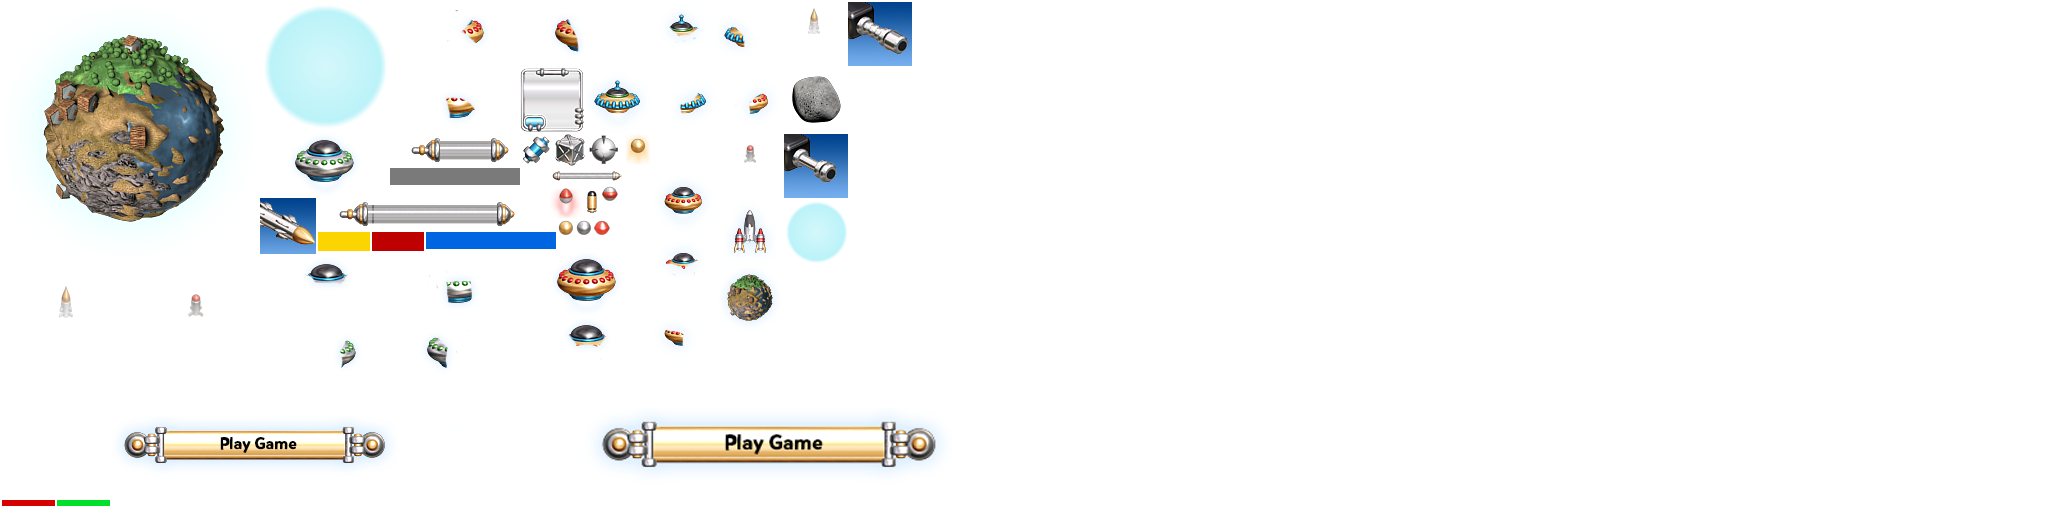
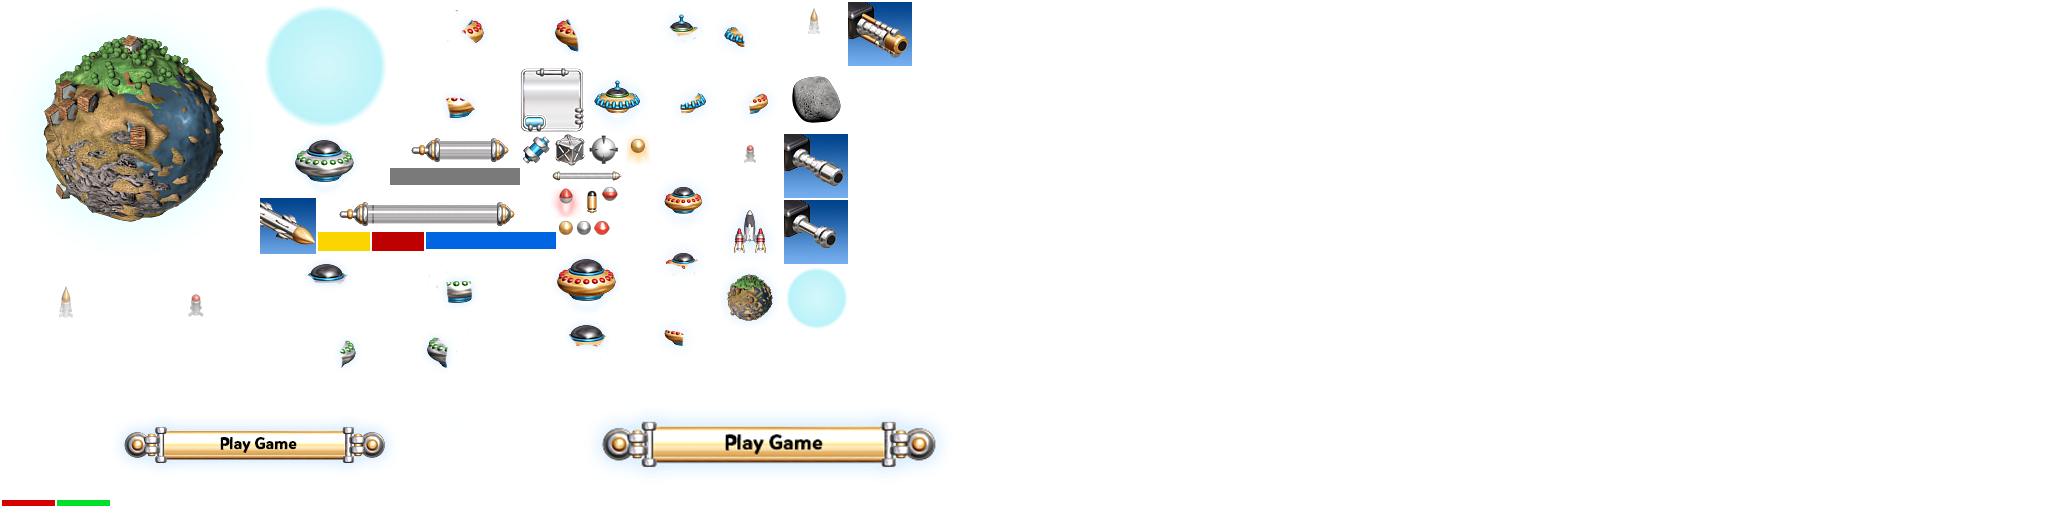
change bullet

Changed region(s): [[0.375, 0.375, 0.4375, 0.6562], [0.4062, 0.0312, 0.4375, 0.0938], [0.375, 0.3125, 0.4062, 0.3438]]

diff --git a/js/ShipController.js b/js/ShipController.js
@@ -72,7 +72,11 @@ class ShipController {
                 Clash.display.weapon.frameName = 'cannon1.jpg';
                 break;
             case 2:
-                Clash.display.weapon.frameName = 'rocket2.jpg';
+                if (this.sprite.numberBullet == 3) {
+                    Clash.display.weapon.frameName = 'rocket2.jpg';
+                } else {
+                    Clash.display.weapon.frameName = "cannon3.jpg";
+                }
                 break;
         }
 
@@ -150,17 +154,16 @@ class ShipController {
             this.timeSinceLastFire = 0;
             switch (this.sprite.bulletType) {
                 case 1:
-                    this.createBullet2(new Phaser.Point(0.5, 0.5), {angle:0});
-                    // this.createBullet1(new Phaser.Point(0.5, 0.5));
+                    // this.createBullet2(new Phaser.Point(0.5, 0.5), {angle:0});
+                    this.createBullet1(new Phaser.Point(0.5, 0.5));
                     break;
                 case 2:
                     if (this.sprite.numberBullet == 3) {
-                        this.createBullet2(new Phaser.Point(0.5, 0.5), {angle:0});
-                        this.createBullet2(new Phaser.Point(0.5, 0.5), {angle:0});
-                        // this.createBullet2(new Phaser.Point(0.5, 0.5), {angle:50});
-                        // this.createBullet2(new Phaser.Point(0.5, 0.5), {angle:-1});
+                        this.createBullet3(new Phaser.Point(0.5, 0.5), {angle: 0});
+                    } else {
+                        this.createBullet2(new Phaser.Point(0.5, 0.5), {angle: 0});
                     }
-                    this.createBullet2(new Phaser.Point(0.5, 0.5), {angle:0});
+
                     break;
                 default:
                     break;
@@ -178,6 +181,13 @@ class ShipController {
 
     createBullet2(direction, configs) {
         new BulletControllerType2(
+            this.sprite.position,
+            direction, configs
+        );
+    }
+
+    createBullet3(direction, configs) {
+        new BulletControllerType3(
             this.sprite.position,
             direction, configs
         );

diff --git a/js/BulletExtend/BulletControllerType3.js b/js/BulletExtend/BulletControllerType3.js
@@ -1,16 +1,16 @@
-class BulletControllerType2 extends BulletController {
+class BulletControllerType3 extends BulletController {
     constructor(position, direction, configs) {
         super(
             position,
-            "bullet-cannon2.png",
+            "rocket1.png",
             direction,
             Clash.playerBulletGroup,
             {
-                bulletSpeed: 800,
+                bulletSpeed: 1200,
                 nameMusic: 'shotrocket',
                 radius: 20,
                 transparency: false,
-                bulletStrength: 10,
+                bulletStrength: 20,
                 angle: configs.angle
             }
         );

diff --git a/index.html b/index.html
@@ -19,6 +19,7 @@
 		<script src="/js/BulletExtend/BulletController.js"></script>
 		<script src="/js/BulletExtend/BulletControllerType1.js"></script>
 		<script src="/js/BulletExtend/BulletControllerType2.js"></script>
+		<script src="/js/BulletExtend/BulletControllerType3.js"></script>
 		<script src="/js/EnemyExtend/EnemyController.js"></script>
 		<script src="/js/EnemyExtend/EnemyFast.js"></script>
 		<script src="/js/EnemyExtend/EnemyMeteorite.js"></script>

diff --git a/js/main.js b/js/main.js
@@ -16,7 +16,7 @@ Clash.configs = {
     maxDistanceBoom: 400,
     damageItemBoom: 8,
     maxEnemyToShield: 2,
-    scoreLevelGame2: 1500,
+    scoreLevelGame2: 1000,
 };
 Clash.display = {};
 
